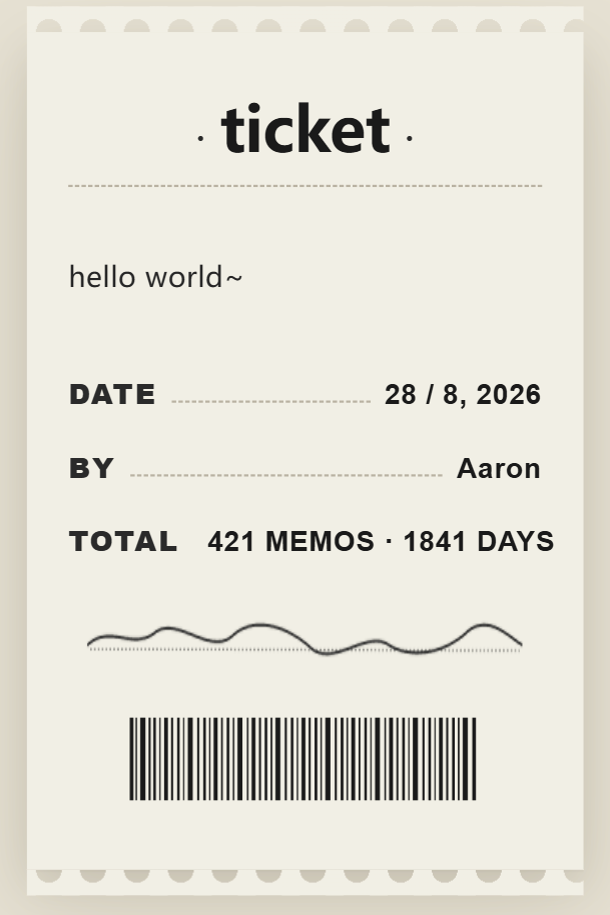
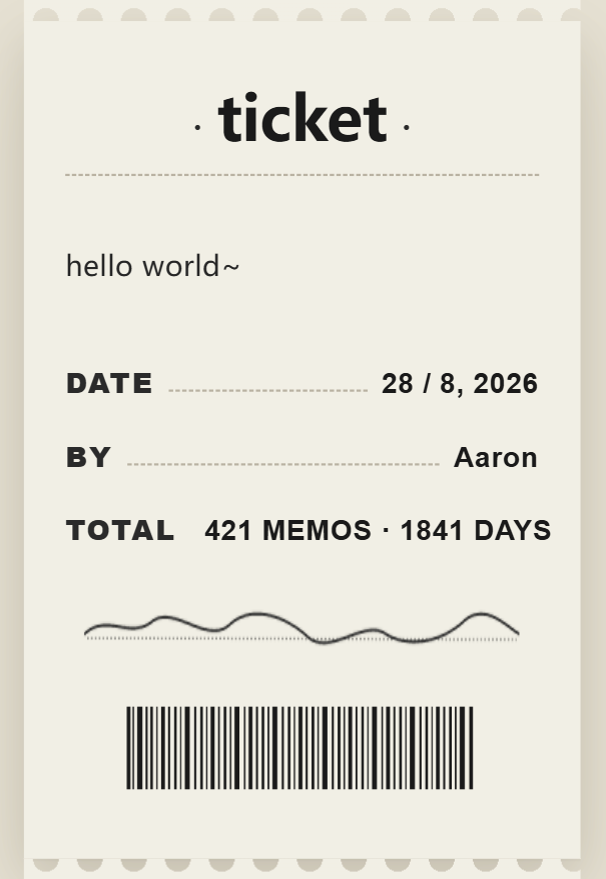
feat: enhance card painter with image path normalization and loading improvements

diff --git a/src/lib/card-painter.js b/src/lib/card-painter.js
@@ -23,28 +23,60 @@ const ASSETS = {
   icon: GLOW_BICYCLE_ICON,
 }
 
+const SCHEME_RE = /^[a-z][a-z0-9+.-]*:\/\//i
+
+/**
+ * 把「包内相对路径」还原成小程序根绝对路径。
+ *
+ * 实测（开发者工具 3.16.2）：
+ *   wx.getImageInfo({ src: '/static/wave-card-bg.png' })
+ *     → res.path === 'static/wave-card-bg.png'   ← 前导斜杠被去掉
+ * 这个相对路径交给 canvas 2d 的 Image 会按「当前页面目录」解析：
+ *   pages/edit/static/wave-card-bg.png → 请求 404/500 → 图片加载失败。
+ * 真机返回的临时路径（wxfile:// 等）不含 static 段，会原样返回。
+ */
+export function normalizeImageInfoPath(path) {
+  if (typeof path !== 'string' || !path) return path
+  const staticIndex = path.indexOf('static/')
+  if (staticIndex === -1) return path
+  if (path.startsWith('/pages/')) return path.slice(staticIndex - 1) // /pages/x/static/y.png
+  if (path.startsWith('/') || SCHEME_RE.test(path)) return path // 已是根绝对路径 / 临时文件路径
+  if (staticIndex === 0) return '/' + path // static/y.png（开发者工具返回值）
+  if (path[staticIndex - 1] === '/') return path.slice(staticIndex - 1) // pages/x/static/y.png
+  return path
+}
+
+function createCanvasImage(canvas, src) {
+  return new Promise((resolve, reject) => {
+    const img = canvas.createImage()
+    img.onload = () => resolve(img)
+    img.onerror = (e) => reject(e || new Error('image load failed'))
+    img.src = src
+  })
+}
+
 function loadImage(canvas, src) {
   return new Promise((resolve, reject) => {
     // #ifdef MP-WEIXIN
+    // base64 / dataURL 可直接被 canvas 2d createImage 加载
     if (src && src.startsWith('data:')) {
-      // base64 / dataURL 可直接被 canvas 2d createImage 加载
-      const img = canvas.createImage()
-      img.onload = () => resolve(img)
-      img.onerror = (e) => reject(e || new Error('image load failed'))
-      img.src = src
+      createCanvasImage(canvas, src).then(resolve, reject)
       return
     }
-    // 本地 /static 路径在小程序 canvas 2d 中不能直接加载，
-    // 先通过 uni.getImageInfo 转成本地临时文件路径
-    uni.getImageInfo({
-      src,
-      success: (res) => {
-        const img = canvas.createImage()
-        img.onload = () => resolve(img)
-        img.onerror = (e) => reject(e || new Error('image load failed'))
-        img.src = res.path
-      },
-      fail: reject,
+    // 先用包内根绝对路径（/static/...）直接喂 canvas 2d：
+    // 开发者工具与新版基础库可直载，且不会触发上面那条被裁掉斜杠的 getImageInfo 路径。
+    // 真机上包内路径直载会失败，届时再退回 getImageInfo 转换后的本地路径。
+    createCanvasImage(canvas, src).then(resolve, () => {
+      uni.getImageInfo({
+        src,
+        success: (res) => {
+          createCanvasImage(canvas, normalizeImageInfoPath((res && res.path) || src)).then(
+            resolve,
+            reject
+          )
+        },
+        fail: reject,
+      })
     })
     // #endif
     // #ifndef MP-WEIXIN
@@ -516,6 +548,8 @@ const PAINTERS = {
   wave: {
     width: WAVE.w,
     pageBg: WAVE.pageBg,
+    // 流线背景是满版渐变；纯色留边会在静态 PNG 上形成矩形边框。
+    pagePad: 0,
     painter: paintWave,
     assets: ['waveBg'],
     requiredAssets: ['waveBg'],
@@ -578,8 +612,9 @@ export async function paintCard(canvas, templateId, fields) {
   ctx.textBaseline = 'alphabetic'
   const logicalH = painter(ctx, fields, imgs, false)
 
-  const outputWidth = entry.width + PAGE_PAD * 2
-  const H = logicalH + PAGE_PAD * 2
+  const pagePad = entry.pagePad ?? PAGE_PAD
+  const outputWidth = entry.width + pagePad * 2
+  const H = logicalH + pagePad * 2
   if (H * SCALE > 4096) return { overflow: true }
 
   // 第二遍：正式尺寸落笔（重设尺寸清空画布，重置 transform）
@@ -593,7 +628,7 @@ export async function paintCard(canvas, templateId, fields) {
   ctx.fillRect(0, 0, outputWidth, H)
 
   // 卡片平移到留边内绘制
-  ctx.translate(PAGE_PAD, PAGE_PAD)
+  ctx.translate(pagePad, pagePad)
   painter(ctx, fields, imgs, true)
 
   return { width: canvas.width, height: canvas.height, overflow: false }

diff --git a/tests/card-painter.test.js b/tests/card-painter.test.js
@@ -11,6 +11,91 @@ const measureCtx = {
 }
 
 describe('流线渐变卡 painter', () => {
+  it('背景图直接加载成功后完成绘制，不让出图 Promise 悬空', async () => {
+    const originalImage = globalThis.Image
+    globalThis.Image = class {
+      set src(_value) {
+        // Vitest 未做 uni-app 条件编译时也会执行 H5 分支；保持静默，
+        // 让断言只观察上面的 MP-WEIXIN canvas 图片加载结果。
+      }
+    }
+    const ctx = {
+      measureText: measureCtx.measureText,
+      setTransform() {},
+      fillRect() {},
+      translate() {},
+      drawImage() {},
+      save() {},
+      restore() {},
+      beginPath() {},
+      moveTo() {},
+      arcTo() {},
+      closePath() {},
+      stroke() {},
+      fillText() {},
+    }
+    const canvas = {
+      width: 0,
+      height: 0,
+      getContext: () => ctx,
+      createImage() {
+        return {
+          onload: null,
+          onerror: null,
+          set src(_value) {
+            queueMicrotask(() => this.onload && this.onload())
+          },
+        }
+      },
+    }
+
+    try {
+      const outcome = await Promise.race([
+        painter.paintCard(canvas, 'wave', waveConfig).then((result) => ({
+          status: 'resolved',
+          result,
+        })),
+        new Promise((resolve) => setTimeout(() => resolve('timeout'), 50)),
+      ])
+
+      expect(outcome).toMatchObject({
+        status: 'resolved',
+        result: { width: 960, height: 1792, overflow: false },
+      })
+    } finally {
+      if (originalImage === undefined) delete globalThis.Image
+      else globalThis.Image = originalImage
+    }
+  })
+
+  it('将开发者工具返回的页面 static 路径恢复为项目根路径', () => {
+    expect(painter.normalizeImageInfoPath).toBeTypeOf('function')
+    expect(
+      painter.normalizeImageInfoPath('/pages/edit/static/wave-card-bg.png')
+    ).toBe('/static/wave-card-bg.png')
+    expect(
+      painter.normalizeImageInfoPath('pages/edit/static/wave-card-bg.png')
+    ).toBe('/static/wave-card-bg.png')
+  })
+
+  // 开发者工具 3.16.2 实测：getImageInfo('/static/x.png') → res.path === 'static/x.png'
+  // 缺了前导斜杠会被 canvas 2d 按当前页面目录解析 → pages/edit/static/x.png → 加载失败
+  it('给 getImageInfo 去掉前导斜杠的 static 路径补回根绝对路径', () => {
+    expect(painter.normalizeImageInfoPath('static/wave-card-bg.png')).toBe(
+      '/static/wave-card-bg.png'
+    )
+  })
+
+  it('真机临时文件路径与正常根路径保持不变', () => {
+    expect(painter.normalizeImageInfoPath('/static/wave-card-bg.png')).toBe(
+      '/static/wave-card-bg.png'
+    )
+    expect(painter.normalizeImageInfoPath('wxfile://tmp_1a2b3c.png')).toBe(
+      'wxfile://tmp_1a2b3c.png'
+    )
+    expect(painter.normalizeImageInfoPath('')).toBe('')
+  })
+
   it('注册 wave painter 的逻辑宽度与页面底色', () => {
     expect(painter.getPainterSpec).toBeTypeOf('function')
     expect(painter.getPainterSpec('wave')).toEqual({
